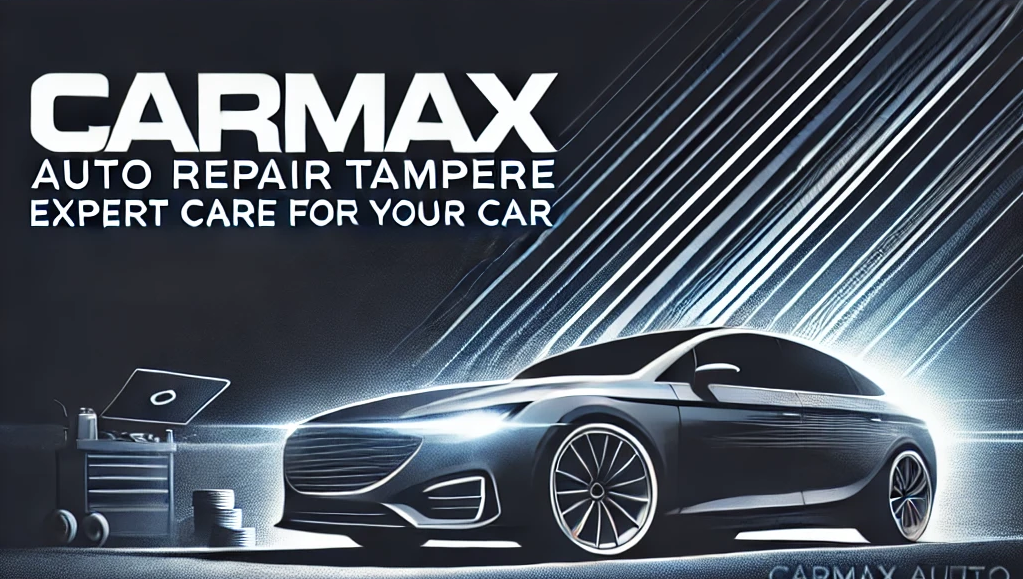
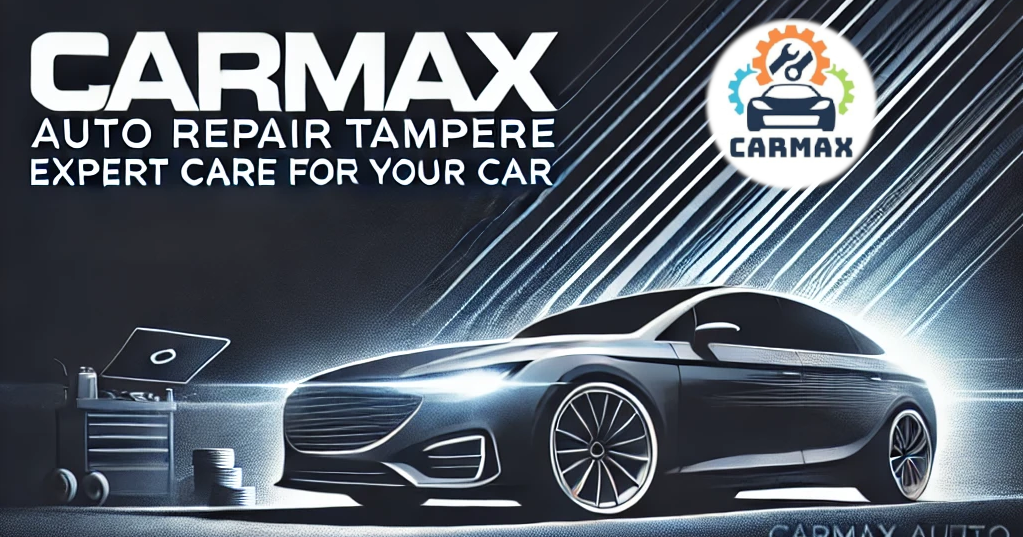
updating og image

diff --git a/app/[locale]/layout.tsx b/app/[locale]/layout.tsx
@@ -36,13 +36,13 @@ export async function generateMetadata ({ params }: { params: { locale: string }
         {
           url: '/images/carmaxautorepair.png',
           width: 1023,
-          height: 579,
+          height: 537,
           alt: 'carmax-auto-repair',
         },
         {
-          url: '/images/carmax-logo.png',
-          width: 280,
-          height: 280,
+          url: '/images/carmaxautorepairs.png',
+          width: 600,
+          height: 314,
           alt: 'carmax-auto-repair',
         },
       ],

diff --git a/app/[locale]/not-found.tsx b/app/[locale]/not-found.tsx
@@ -24,13 +24,13 @@ export async function generateMetadata ({ params }: { params: { locale: string }
         {
           url: '/images/carmaxautorepair.png',
           width: 1023,
-          height: 579,
+          height: 537,
           alt: 'carmax-auto-repair',
         },
         {
-          url: '/images/carmax-logo.png',
-          width: 280,
-          height: 280,
+          url: '/images/carmaxautorepairs.png',
+          width: 600,
+          height: 314,
           alt: 'carmax-auto-repair',
         },
       ],
